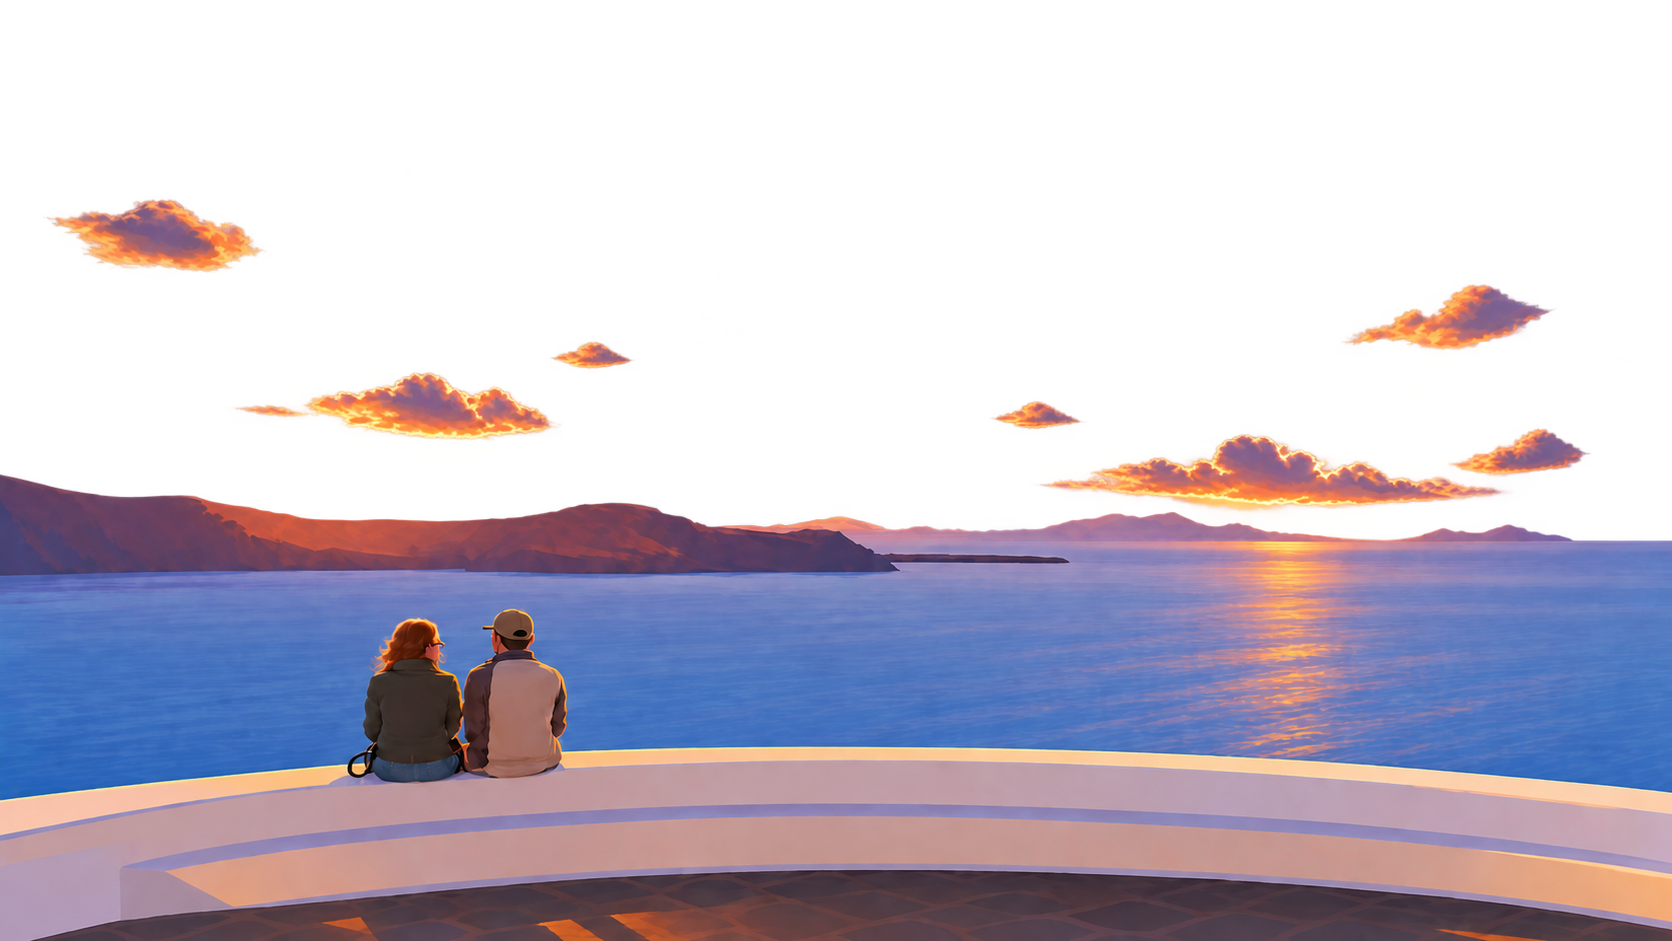
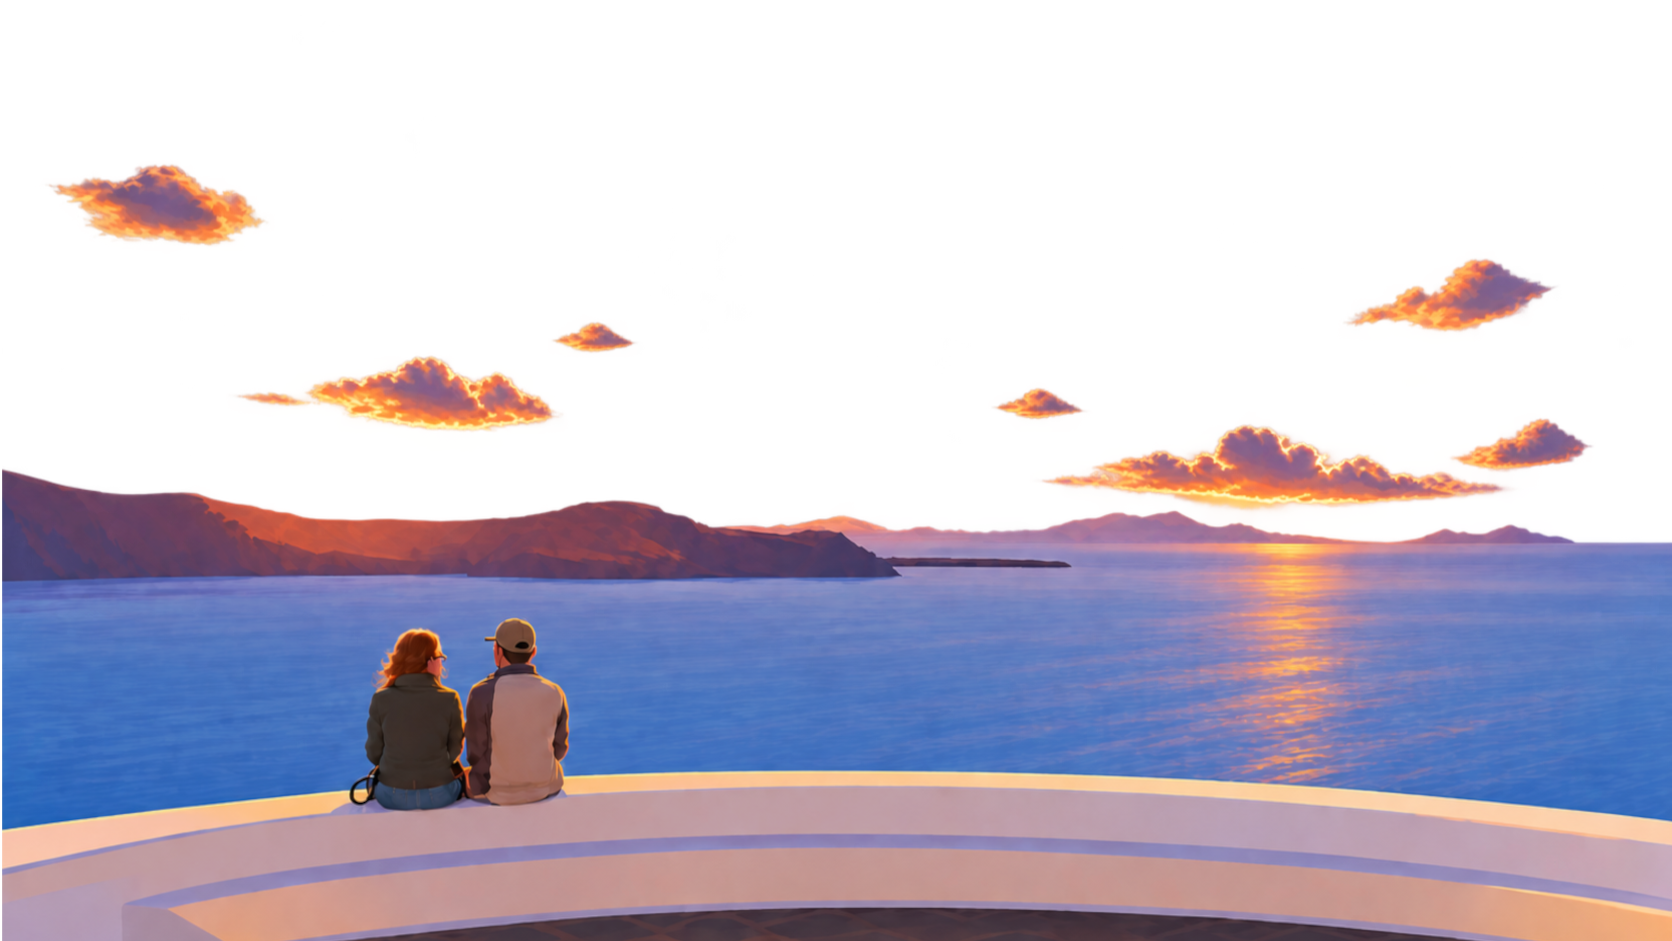
Swap sunset photo for refined vector; animate sun colour on descent
- Replace assets/photos/proposal/sunset.png with the latest personal
  vector (slight retouch/cleanup over the previous version, same
  1672x941 geometry so the sun's alignment with the water reflection
  needs no repositioning).
- Animate the proposal sun's own colour alongside its existing
  scroll-driven travel/fade: starts pale yellow, reaches a vivid
  orange-red peak by the time it's about half-descended (sitting
  between the cloud band and the horizon), then holds through the
  rest of its descent instead of only reaching full saturation right
  as it's disappearing behind the photo layer.

diff --git a/index.html b/index.html
@@ -3004,6 +3004,27 @@
     function clamp01(n){ return Math.min(1, Math.max(0, n)); }
     function stage(p, start, end){ return clamp01((p - start) / (end - start)); }
     function ease(t){ return t * t * (3 - 2 * t); } // smoothstep
+    // disc colour lerps alongside its travel/fade (both driven by the same
+    // sunStage below) -- starts the pale yellow it's always been, reaches a
+    // vivid orange-red peak. Colour reaches that peak by sunStage 0.5 (the
+    // disc is only half-descended then, ducking behind the cloud band well
+    // above the horizon) rather than stretching the lerp across the full
+    // 0-1 range: the visible "peak sunset" moment -- sitting between the
+    // cloud and the horizon -- was landing on a still-half-mixed, washed-out
+    // colour, with the fully-saturated end colour only ever reached at
+    // sunStage 1 (progress 0.72), by which point the disc is already mostly
+    // hidden behind the photo layer. Direct feedback: "when the sun is
+    // between the cloud and the horizon it looks very dull -- that should
+    // be the peak of sunset colours, bright orange/reddish".
+    var SUN_COLOR_START = [244, 219, 130]; // #F4DB82
+    var SUN_COLOR_PEAK = [255, 90, 43]; // #FF5A2B -- vivid orange-red
+    function sunColor(sunStage){
+      var t = clamp01(sunStage / 0.5);
+      var r = Math.round(SUN_COLOR_START[0] + (SUN_COLOR_PEAK[0] - SUN_COLOR_START[0]) * t);
+      var g = Math.round(SUN_COLOR_START[1] + (SUN_COLOR_PEAK[1] - SUN_COLOR_START[1]) * t);
+      var b = Math.round(SUN_COLOR_START[2] + (SUN_COLOR_PEAK[2] - SUN_COLOR_START[2]) * t);
+      return 'rgb(' + r + ',' + g + ',' + b + ')';
+    }
     // fades in over [inStart,inEnd], holds, fades out over [outStart,outEnd];
     // also returns the entrance-only fraction so callers can drive a small
     // translateY that doesn't reverse on the way out
@@ -3042,6 +3063,7 @@
       // centred text block entirely rather than passing behind it
       var sunTravel = window.innerWidth <= 860 ? 8 : 78;
       sun.style.transform = 'translate(-50%,-50%) translateY(' + (sunStage * sunTravel).toFixed(2) + 'vh)';
+      sun.style.background = sunColor(sunStage);
       // quick fade-in right as pinning begins (progress is clamped to 0 for
       // the whole pre-pin entrance, so the sun stays invisible -- never
       // "rising" -- until it's already sitting still in its start position
